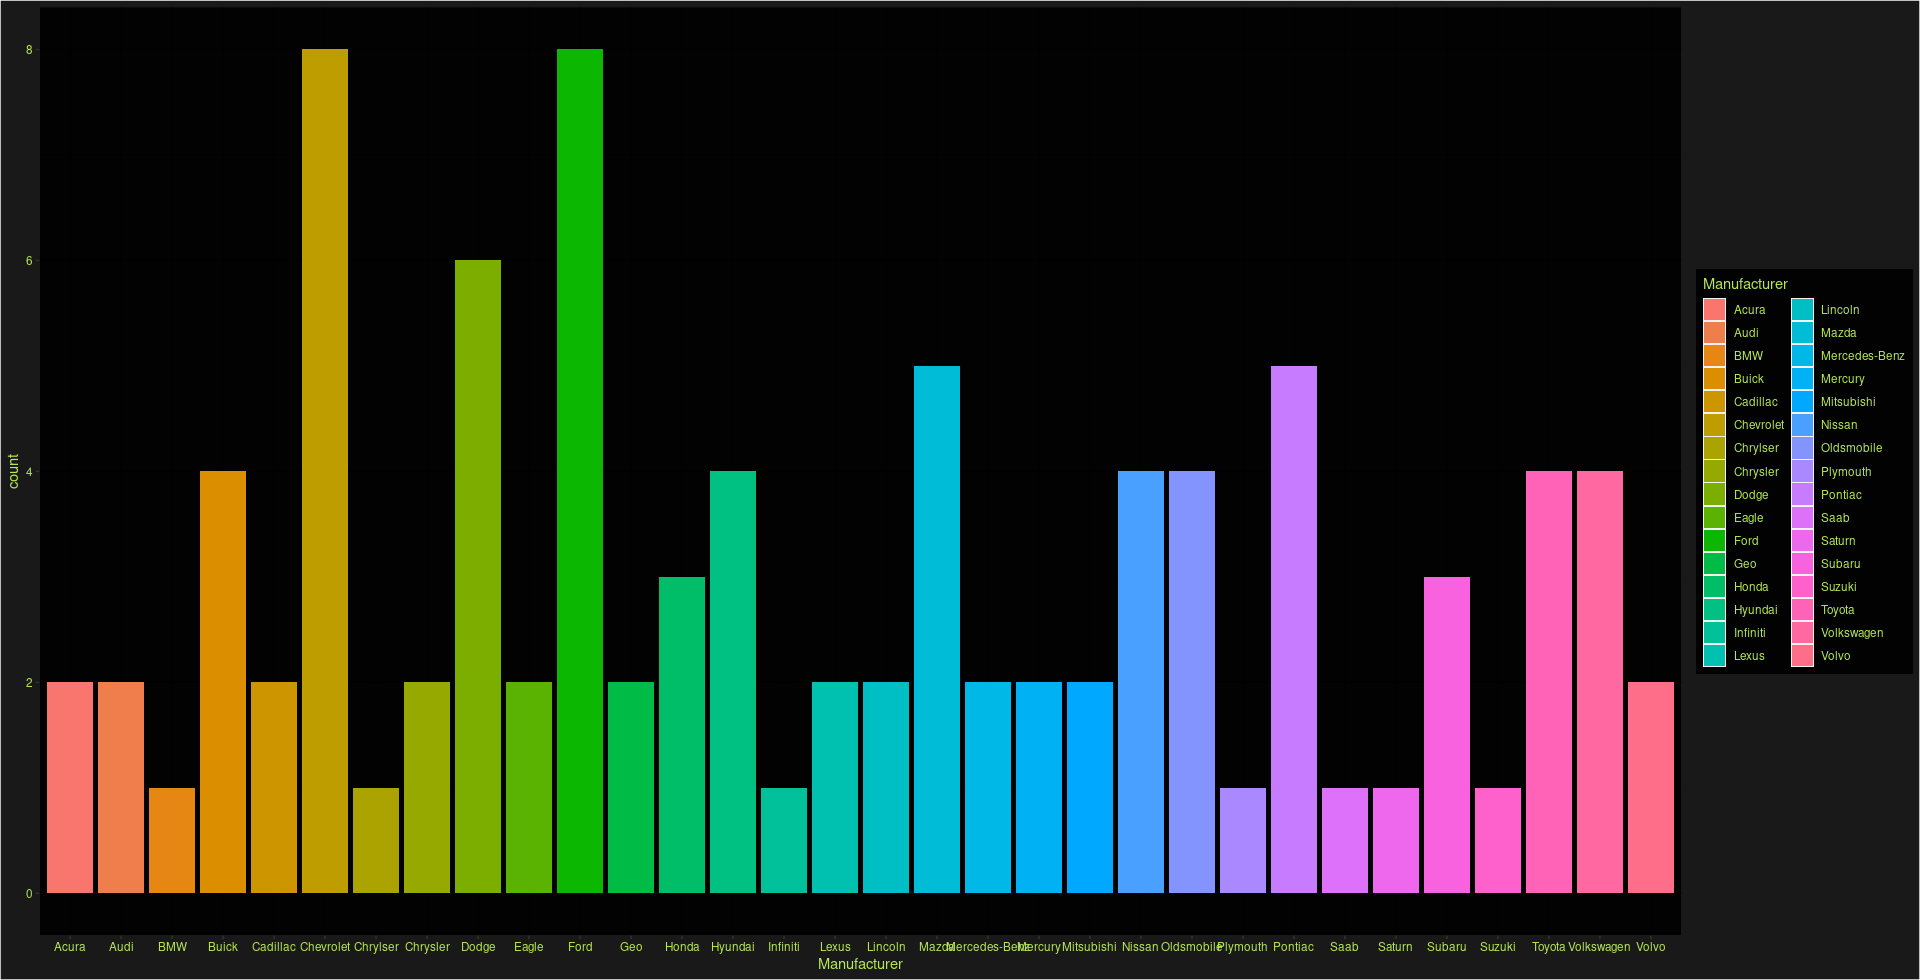
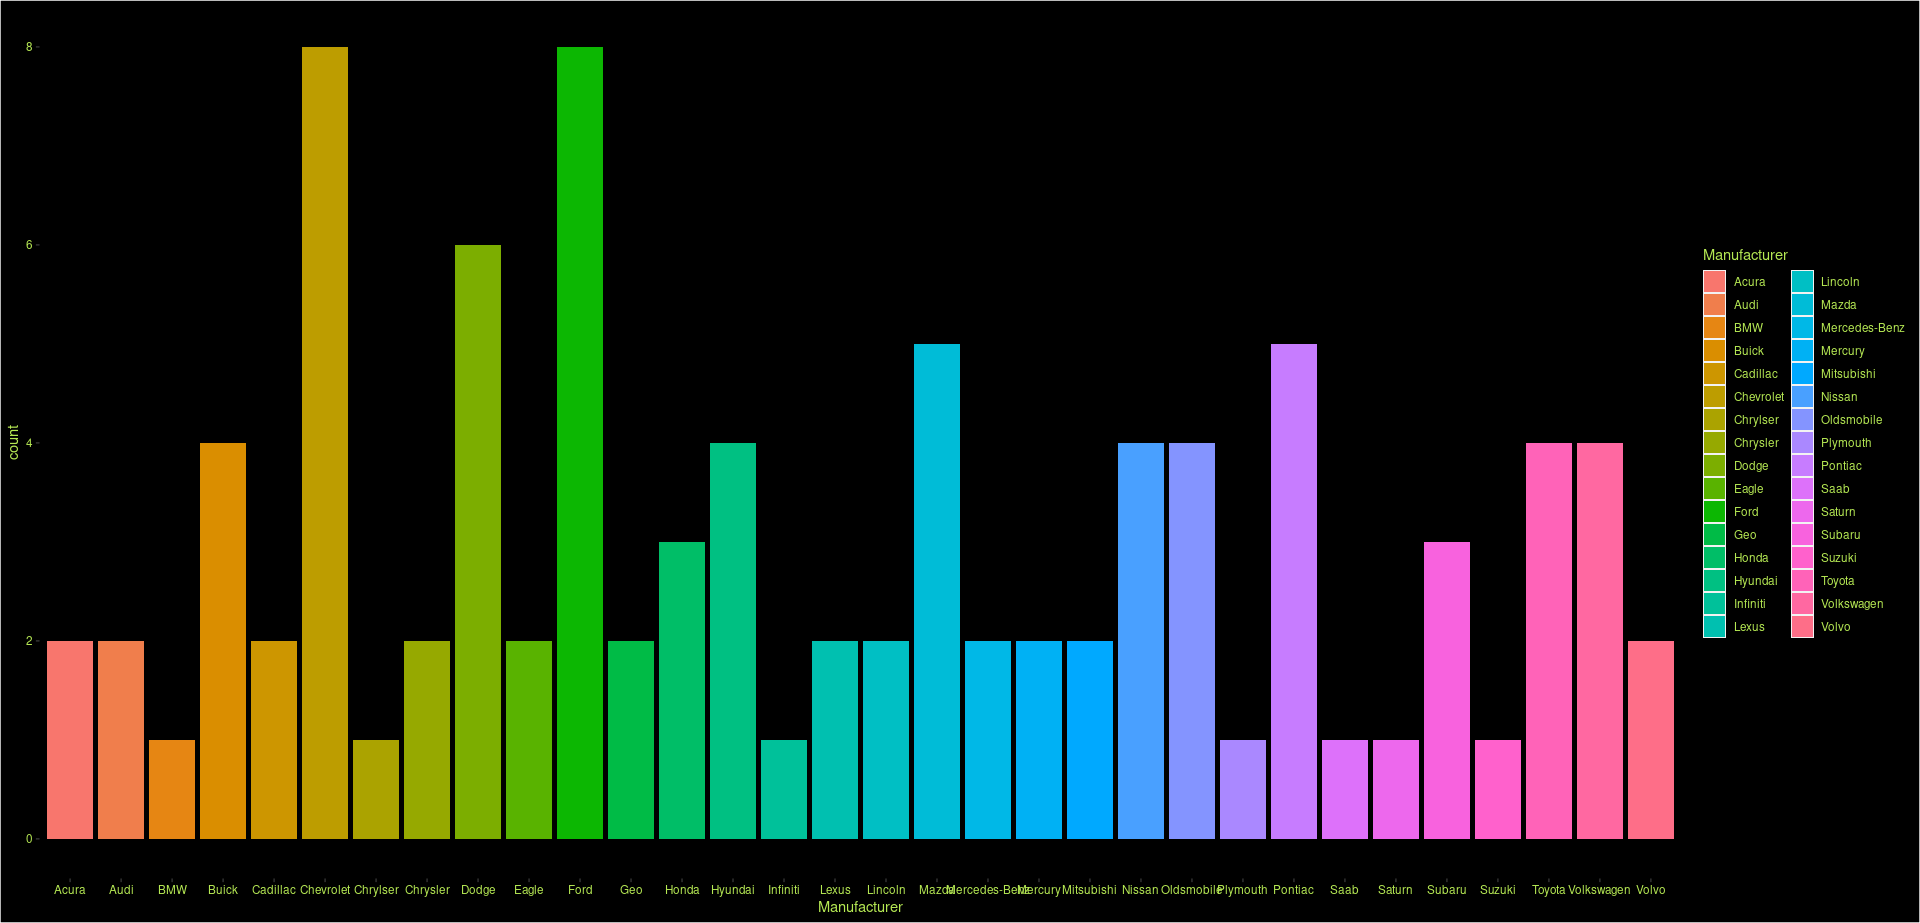
Ajuste todas la graficas de barras

Changed region(s): [[0.0, 0.0, 1.0, 1.0]]

diff --git a/AnalisisCars99/AnalisisCars99.md b/AnalisisCars99/AnalisisCars99.md
@@ -50,7 +50,7 @@ frec_tabla
 * #### Plot tabla de frecuencias
 ![Plot tabla de frecuencias](./src/img/PlotTablaFrecuencias.png)
 
-## Gráfica de barras *ggplot2*
+## Gráficas de barras *ggplot2*
 
 ### Gráfica de barras frecuencia absoluta
 * Este código en R utiliza la librería ggplot2 para crear un gráfico de barras de las frecuencias absolutas de una variable cualitativa llamada Manufacturer en un conjunto de datos llamado base_carros. La función geom_bar se utiliza para crear un gráfico de barras, donde se define el mapeo de datos para el eje x, que en este caso es el nombre de los fabricantes, utilizando la función aes que toma como argumento x = Manufacturer. No se especifica la altura de cada barra, por lo que por defecto se muestra la frecuencia absoluta de cada fabricante.
@@ -69,23 +69,108 @@ ggplot(data = base_carros) +
         legend.title = element_text(color = "#b5e853"),)
 ```
 * #### ggplot barras frecuencia absoluta
-![Plot Tabla de Frecuencias](./src/img/ggplotBarrasFrecuenciaAbsoluta.png)
+![Plot Frecuencia Absoluta](./src/img/ggplotBarrasFrecuenciaAbsoluta.png)
 
 ### Gráfica de barras frecuencia relativa
+* Este código está generando un gráfico de barras con las frecuencias relativas de los fabricantes de los carros en función del país de origen del fabricante.
 
+  * La función ggplot() establece el conjunto de datos base_carros como el origen de los datos para el gráfico.
+  * La función geom_bar() se utiliza para crear un gráfico de barras y el parámetro mapping se utiliza para asignar las variables estéticas a las columnas del conjunto de datos. En este caso, el eje x representa el fabricante, el eje y representa la frecuencia relativa de los fabricantes, el parámetro fill se utiliza para asignar el país de origen de cada fabricante al color de la barra y el parámetro group se utiliza para agrupar los datos por país de origen.
+  * La función theme() se utiliza para establecer los aspectos de la apariencia del gráfico, como el color de fondo, los colores de las líneas de la cuadrícula, los colores del texto de los ejes y el color de fondo de la leyenda.
+  * La función labs() se utiliza para establecer los títulos de los ejes y de la leyenda. En este caso, el título del eje x es "Manufacturer", el título del eje y es "Frecuencia relativa" y el título de la leyenda es "Origin".
 
-# El código utiliza el paquete ggplot2 para crear una gráfica de barras con las 
-# frecuencias relativas de los fabricantes de carros en el dataset base_carros. 
-# La función geom_bar() es usada para crear una gráfica de barras, donde se 
-# define el mapeo de datos para el eje x, que en este caso es el nombre de los 
-# fabricantes, y el eje y es la frecuencia relativa de cada fabricante. 
-# El argumento stat(prop) es utilizado para indicar que la altura de cada barra 
-# debe ser proporcional a la frecuencia relativa de cada fabricante.
+```
 ggplot(data = base_carros) + 
-  geom_bar(mapping = aes(x = Manufacturer, y = stat(prop), group = 1))
+  geom_bar(mapping = aes(x = Manufacturer, y = stat(prop), fill = Origin, group = Origin)) +
+  theme(panel.background = element_rect(fill = "#000000"),
+        plot.background = element_rect(fill = "#000000"),
+        panel.grid.major = element_line(color = "#000000e6"),
+        panel.grid.minor = element_line(color = "#000000e6"),
+        axis.text = element_text(color = "#b5e853"),
+        axis.title = element_text(color = "#b5e853"),
+        legend.background = element_rect(fill = "#000000e6"),
+        legend.text = element_text(color = "#b5e853"),
+        legend.title = element_text(color = "#b5e853")) +
+  labs(x = "Manufacturer", y = "Frecuencia relativa", fill = "Origin")
+```
 
-# Grafica de barras que muestra la proporción de una variable categórica (Manufacturer).
-# La función fct_reorder() de la librería forcats se utiliza para ordenar las categorías por longitud.
-# La función stat(prop) para mostrar la proporción en lugar del recuento.
+* #### ggplot barras frecuencia relativa
+![Plot Frecuencia Relativa](./src/img/ggplotBarrasFrecuenciaRelativa.png)
+
+### Gráfica de barras frecuencia relativa ordenados por el número de caracteres en su nombre
+* Este código genera una gráfica de barras que muestra la frecuencia relativa de los fabricantes de autos en la base de datos base_carros, ordenados por el número de caracteres en su nombre (usando la función fct_reorder del paquete forcats). Además, el color de las barras se define por la variable Origin de la base de datos. La leyenda correspondiente se agrega utilizando las funciones labs y theme, y se personalizan los colores del fondo, las líneas de la cuadrícula, los ejes y la leyenda.
+
+* La advertencia que aparece indica que se eliminaron estéticas durante la transformación estadística, lo que podría deberse a una estructura de agrupación incorrecta en los datos. En este caso, es probable que la variable Origin no esté formateada correctamente como un factor en la base de datos.
+
+```
 ggplot(data = base_carros) + 
-  geom_bar(mapping = aes(x = fct_reorder(Manufacturer,Manufacturer,length), y = stat(prop), group = 1))
+  geom_bar(mapping = aes(x = fct_reorder(Manufacturer,Manufacturer,length), y = stat(prop), fill = Origin, group = Origin)) +
+  labs(x = "Manufacturer", y = "Frecuencia relativa", title = "Frecuencia relativa de fabricantes de autos") +
+  theme(panel.background = element_rect(fill = "#000000"),
+        plot.background = element_rect(fill = "#000000"),
+        panel.grid.major = element_line(color = "#000000e6"),
+        panel.grid.minor = element_line(color = "#000000e6"),
+        axis.text = element_text(color = "#b5e853"),
+        axis.title = element_text(color = "#b5e853"),
+        legend.background = element_rect(fill = "#000000e6"),
+        legend.text = element_text(color = "#b5e853"),
+        legend.title = element_text(color = "#b5e853"))
+```
+
+* #### ggplot barras frecuencia relativa ordenados por el número de caracteres en su nombre
+![Plot Frecuencia Relativa](./src/img/ggplotBarrasFrecuenciaRelativaSortName.png)
+
+### Gráfica de barras frecuencia relativa y apila el tipo de airbag que utilizan
+* Este código crea una gráfica de barras que muestra la frecuencia de fabricantes de autos en el eje x y el número de modelos que tienen bolsas de aire en el eje y. Cada barra está coloreada según si los modelos tienen o no bolsas de aire.
+
+  * ggplot(data = base_carros) establece la fuente de datos para la gráfica como el dataframe base_carros.
+
+  * geom_bar(mapping = aes(x = Manufacturer, fill = AirBags)) especifica que la gráfica tendrá barras y define dos mapeos estéticos: el eje x se asigna a Manufacturer y el relleno de las barras se asigna a AirBags.
+
+  * theme(...) establece el tema de la gráfica. En este caso, establece el color de fondo, las líneas de la cuadrícula y los colores de los textos y de la leyenda.
+
+```
+ggplot(data = base_carros) + 
+  geom_bar(mapping = aes(x = Manufacturer, fill = AirBags))+
+  theme(panel.background = element_rect(fill = "#000000"),
+        plot.background = element_rect(fill = "#000000"),
+        panel.grid.major = element_line(color = "#000000e6"),
+        panel.grid.minor = element_line(color = "#000000e6"),
+        axis.text = element_text(color = "#b5e853"),
+        axis.title = element_text(color = "#b5e853"),
+        legend.background = element_rect(fill = "#000000e6"),
+        legend.text = element_text(color = "#b5e853"),
+        legend.title = element_text(color = "#b5e853"))
+```
+
+* #### ggplot barras frecuencia relativa relativa apilando tipo de airbag
+![Plot Frecuencia Relativa Airbags](./src/img/ggplotBarrasFrecuenciaAirbag.png)
+
+### Gráfica de barras proporcionales de fabricantes y tipos de automóvil
+* Este código genera una gráfica de barras apiladas proporcionales que muestra la proporción de cada tipo de automóvil por fabricante en los datos de base_carros.
+
+* En la función geom_bar, se utiliza el parámetro mapping para establecer la variable Manufacturer en el eje x y la variable Type en el relleno de las barras. El parámetro position se establece como "fill" para apilar las barras de manera proporcional en lugar de mostrarlas en paralelo.
+
+* En la sección del tema, se establece el color de fondo del panel, la trama y las líneas de la cuadrícula, así como el color del texto de los ejes y la leyenda. También se establece el color de fondo de la leyenda y el color del texto de la leyenda.
+
+```
+# Grafica proporcion
+ggplot(data = base_carros) + 
+  geom_bar(mapping = aes(x = Manufacturer, fill = Type), position = "fill")+
+  theme(panel.background = element_rect(fill = "#000000"),
+        plot.background = element_rect(fill = "#000000"),
+        panel.grid.major = element_line(color = "#000000e6"),
+        panel.grid.minor = element_line(color = "#000000e6"),
+        axis.text = element_text(color = "#b5e853"),
+        axis.title = element_text(color = "#b5e853"),
+        legend.background = element_rect(fill = "#000000e6"),
+        legend.text = element_text(color = "#b5e853"),
+        legend.title = element_text(color = "#b5e853"))
+```
+
+* #### ggplot barras frecuencia relativa relativa apilando tipo de airbag
+![Plot Frecuencia Relativa Airbags](./src/img/ggplotBarrasProporcionales.png)
+
+## Gráficas circulares *ggplot2*
+
+### 
